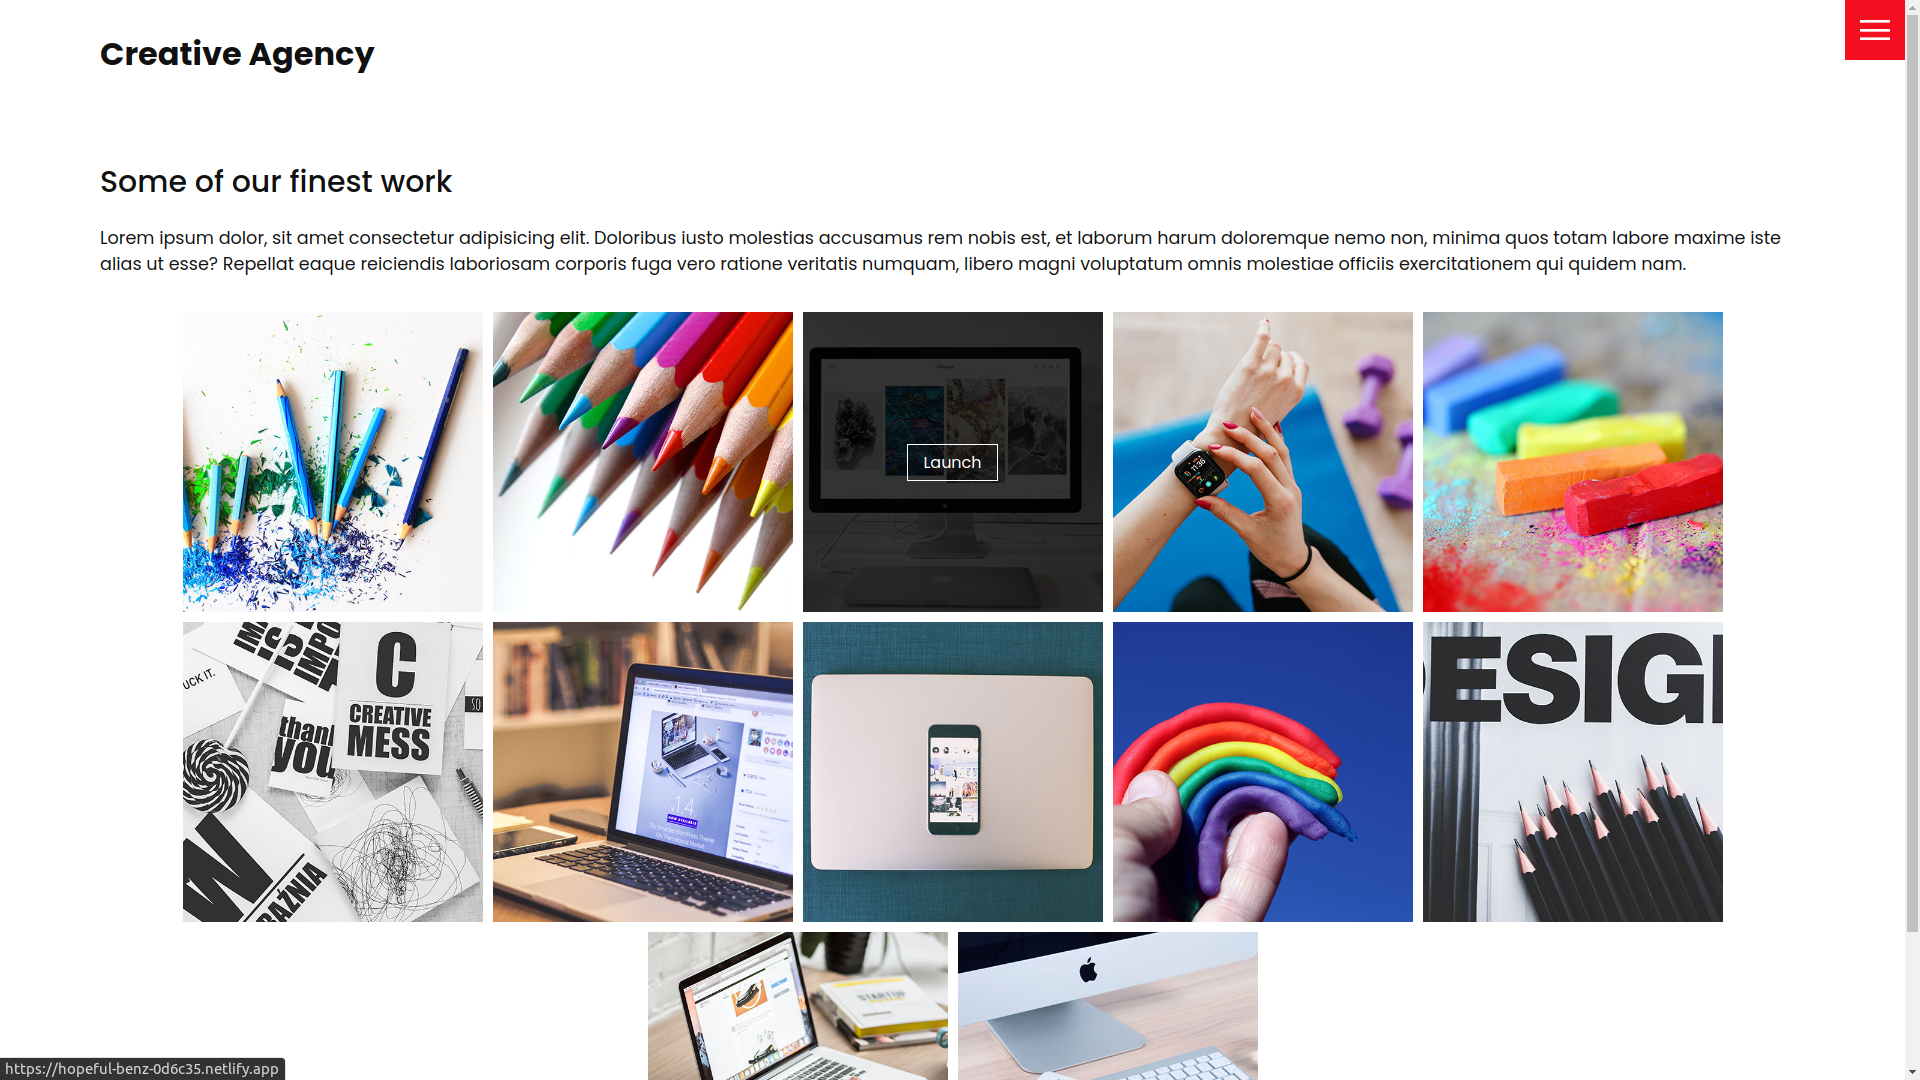
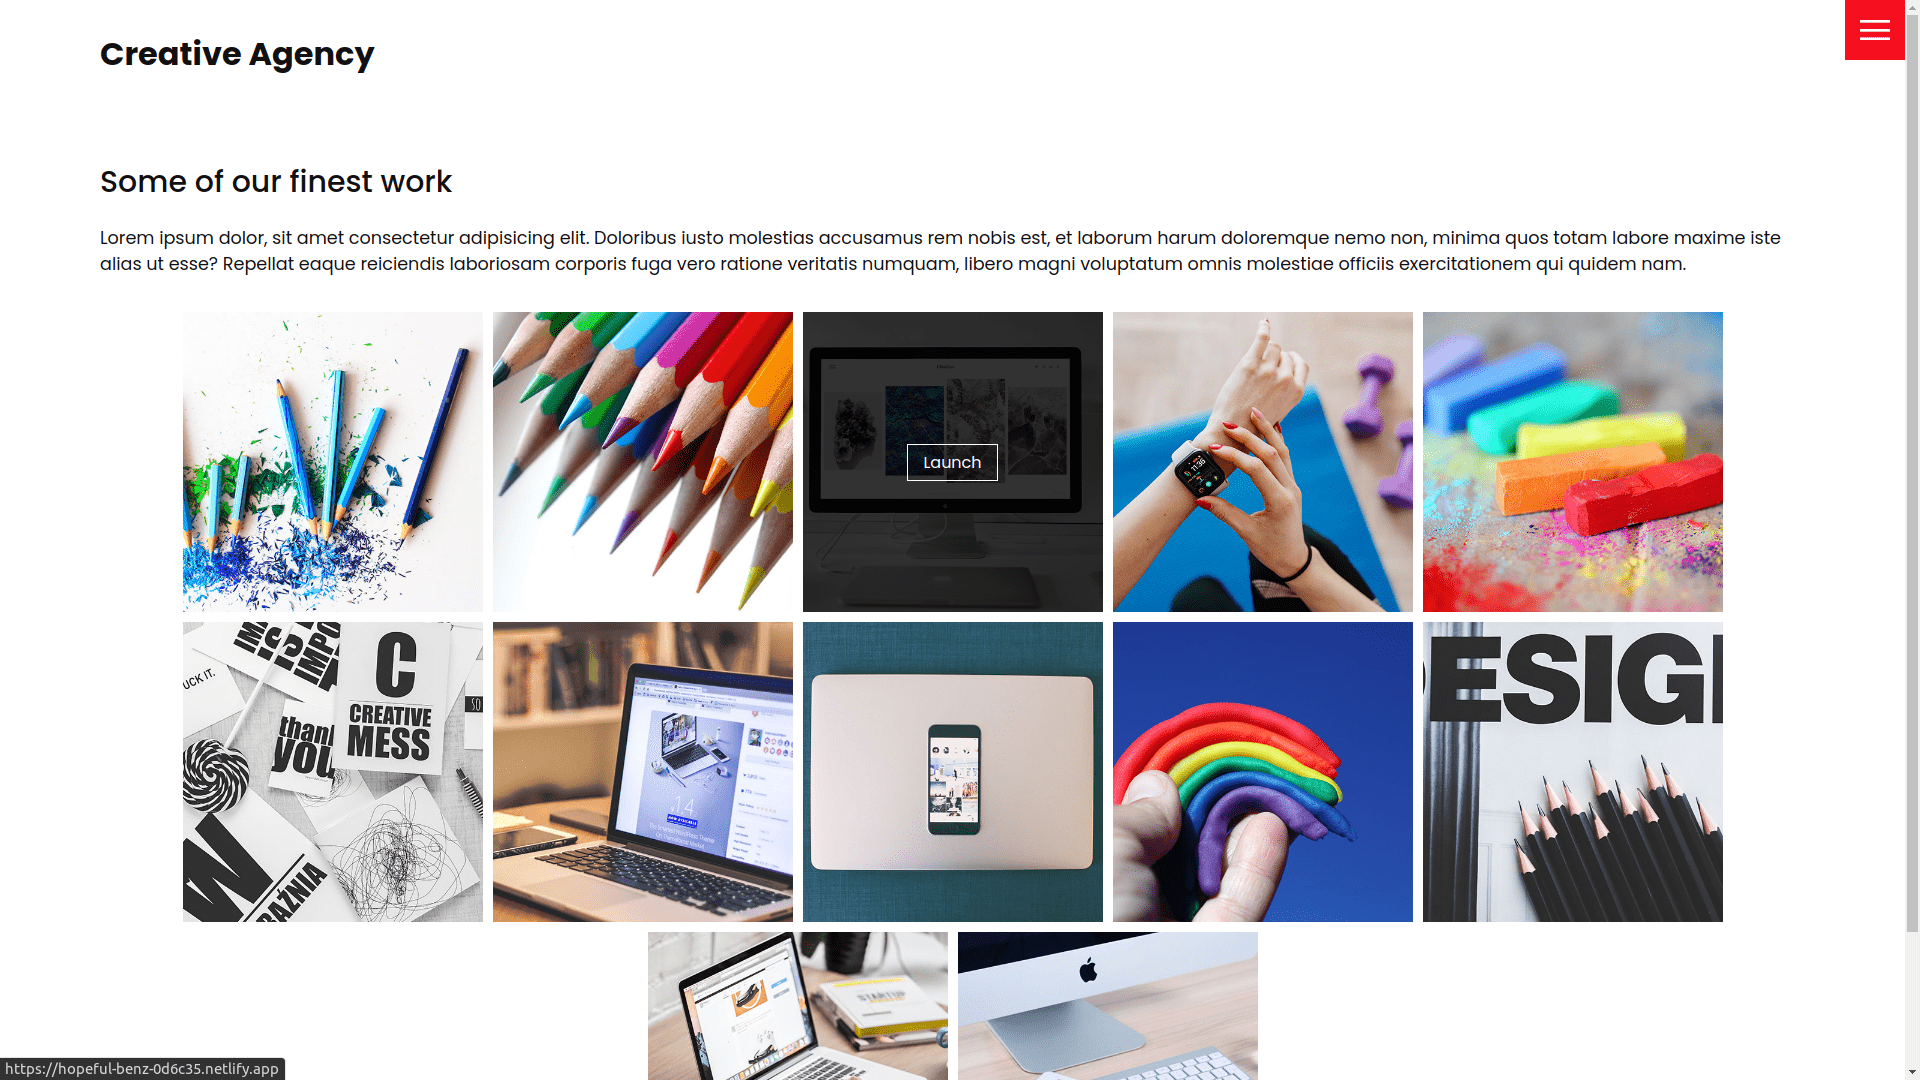
img compression

diff --git a/projectSpendify.html b/projectSpendify.html
@@ -1,9 +1,4 @@
 <!DOCTYPE html>
-<!--
-	Ethereal by HTML5 UP
-	html5up.net | @ajlkn
-	Free for personal and commercial use under the CCA 3.0 license (html5up.net/license)
--->
 <html>
   <head>
     <title id="top">Vector</title>
@@ -16,7 +11,8 @@
     <noscript
       ><link rel="stylesheet" href="assets/css/noscript.css"
     /></noscript>
-    <link rel="icon" href="logo.svg" type="image/x-icon" />
+  <link rel="icon" href="logo.svg" type="image/x-icon">
+
   </head>
   <body class="is-preload">
     <!-- Page Wrapper -->
@@ -26,49 +22,72 @@
         <!-- Panel -->
         <section class="panel" id="projects">
           <div class="intro color2">
-            <h2 class="major">S.A.D Group LTD</h2>
+            <h2 class="major">Spendify</h2>
             <p>
-              construction contractor company, designed using React front-end
-              and built a python custom API responsible for saving user requests
-              and sending emails notifying the company.
+              eCommerce web application, client-side features include shopping
+              cart with automatic save in local storage, client sign up, profile
+              page, and order history page. the admin dashboard allows for
+              product management as well as client order and profile management.
+              the admin order list will update as soon as an order has been
+              submitted. 
             </p>
-            <div class="go-to-live__Link">
-              <a
-                href="https://sadgroup.co.il/"
-                target="_blank"
-                style="font-weight: 700; font-family: Helvetica, sans-serif"
-                >Live <i class="fas fa-external-link-alt"> </i
-              ></a>
-            </div>
+         
           </div>
+         
+            <div class="intro color0">
+              
+              <p>
+                the admin is able to approve the order payment as well
+              as the order delivery status, which will update on the client
+              order history page</br>
+                 * admin dashboard:   </br>add /admin.<br/> 
+                * admin login details:  </br>admin@example.com  </br>1234 
+                </br>
+                * user login
+                details: user@example.com  </br>1234
+              </p>
+              
+              <div class="go-to-live__Link">
+                <a
+                href="https://nervous-engelbart-418ec7.netlify.app/"
+                target="_blank"
+                style="
+                  font-weight: 700;
+                  font-family: Helvetica, sans-serif;"    
+                >Live <i class="fas fa-external-link-alt"> </i></a
+              >
+            </div>
+              
+            </div>
+
           <div class="gallery">
             <a
-              href="images/gallery/fulls/sadgroup2.png"
+              href="images/gallery/fulls/spendify1.png"
               class="image filtered span-2-5"
               data-position="center"
               style="border: solid 1px var(--color-primary)"
-              ><img src="images/gallery/fulls/sadgroup2.png" alt=""
+              ><img src="images/gallery/fulls/spendify1.png" alt=""
             /></a>
             <a
-              href="images/gallery/fulls/sadgroup3.png"
+              href="images/gallery/fulls/spendify2.png"
               class="image filtered span-2-5"
               data-position="center"
               style="border: solid 1px var(--color-primary)"
-              ><img src="images/gallery/fulls/sadgroup3.png" alt=""
+              ><img src="images/gallery/fulls/spendify2.png" alt=""
             /></a>
             <a
-              href="images/gallery/fulls/sadgroup4.png"
+              href="images/gallery/fulls/spendify3.png"
               class="image filtered span-2-5"
               data-position="center"
               style="border: solid 1px var(--color-primary)"
-              ><img src="images/gallery/fulls/sadgroup4.png" alt=""
+              ><img src="images/gallery/fulls/spendify3.png" alt=""
             /></a>
             <a
-              href="images/gallery/fulls/sadgroup1.png"
+              href="images/gallery/fulls/spendify4.png"
               class="image filtered span-2-5"
               data-position="center"
               style="border: solid 1px var(--color-primary)"
-              ><img src="images/gallery/fulls/sadgroup1.png" alt=""
+              ><img src="images/gallery/fulls/spendify4.png" alt=""
             /></a>
           </div>
         </section>
@@ -90,10 +109,8 @@
           </div>
           <div class="inner columns divided">
             <div class="span-3-25">
-              <form
-                action="https://formsubmit.co/vector.development@protonmail.com"
-                method="POST"
-              >
+              <form action="https://formsubmit.co/vector.development@protonmail.com"
+              method="POST">
                 <div class="fields">
                   <div class="field half">
                     <label for="name">Name</label>
@@ -147,6 +164,7 @@
           </div>
         </section>
 
+    
         <!-- Copyright -->
         <div class="copyright">&copy; Vector Design: <a href="/">VSD</a>.</div>
 

diff --git a/index.html b/index.html
@@ -181,6 +181,14 @@
           </div>
           <div class="gallery">
             <a
+            href="/projectSpendify.html"
+
+              class="image filtered  span-2-5"
+              data-position="center"
+              style="border:1px solid var(--color-primary)"
+              ><img src="images/gallery/fulls/spendify1.png" alt=""
+            /></a>
+            <a
             href="/projectEQ.html"
 
               class="image filtered  span-2-5"
@@ -194,16 +202,17 @@
               class="image filtered  span-2-5"
               data-position="left"
               style="border:1px solid var(--color-primary)"
-              ><img src="images/gallery/fulls/ca2.png" alt=""
+              ><img src="images/gallery/fulls/ca3.png" alt=""
             /></a>
-            <a
+            <!-- ######### Electrics STORE HEB ######### -->
+            <!-- <a
             href="/projectES.html"
 
               class="image filtered  span-2-5"
               data-position="top"
               style="border:1px solid var(--color-primary)"
               ><img src="images/gallery/fulls/elec1.png" alt=""
-            /></a>
+            /></a> -->
             <a
             href="/projectNA.html"
 

diff --git a/projectEQ.html b/projectEQ.html
@@ -32,19 +32,15 @@
               components, lightwheight PWA, different features such as cart,
               product slider and a modern resposnsive design.
             </p>
-            <ul class="contact-icons">
-              <li class="icon solid fas fa-external-link-alt">
-                <a
-                  href="https://priceless-jennings-93086e.netlify.app/"
-                  target="_blank"
-                  style="
-                    font-weight: 200;
-                    font-family: Arial, Helvetica, sans-serif;
-                  "
-                  >Live</a
-                >
-              </li>
-            </ul>
+
+            <div class="go-to-live__Link">
+              <a
+                href="https://priceless-jennings-93086e.netlify.app/"
+                target="_blank"
+                style="font-weight: 700; font-family: Helvetica, sans-serif"
+                >Live <i class="fas fa-external-link-alt"> </i
+              ></a>
+            </div>
           </div>
           <div class="gallery">
             <a

diff --git a/projectFW.html b/projectFW.html
@@ -34,19 +34,14 @@
               based on the original company website which was designed with
               wordpress.
             </p>
-            <ul class="contact-icons">
-              <li class="icon solid fas fa-external-link-alt">
-                <a
-                  href="https://keen-nightingale-4d0442.netlify.app/"
-                  target="_blank"
-                  style="
-                    font-weight: 200;
-                    font-family: Arial, Helvetica, sans-serif;
-                  "
-                  >Live</a
-                >
-              </li>
-            </ul>
+            <div class="go-to-live__Link">
+              <a
+                href="https://keen-nightingale-4d0442.netlify.app/"
+                target="_blank"
+                style="font-weight: 700; font-family: Helvetica, sans-serif"
+                >Live <i class="fas fa-external-link-alt"> </i
+              ></a>
+            </div>
           </div>
           <div class="gallery">
             <a

diff --git a/projectCA.html b/projectCA.html
@@ -32,19 +32,14 @@
               fast, and quick to update. custom React components & minimalist
               design.
             </p>
-            <ul class="contact-icons">
-              <li class="icon solid fas fa-external-link-alt">
-                <a
-                  href="https://hopeful-benz-0d6c35.netlify.app/"
-                  target="_blank"
-                  style="
-                    font-weight: 200;
-                    font-family: Arial, Helvetica, sans-serif;
-                  "
-                  >Live</a
-                >
-              </li>
-            </ul>
+            <div class="go-to-live__Link">
+              <a
+                href="https://hopeful-benz-0d6c35.netlify.app/"
+                target="_blank"
+                style="font-weight: 700; font-family: Helvetica, sans-serif"
+                >Live <i class="fas fa-external-link-alt"> </i
+              ></a>
+            </div>
           </div>
 
           <div class="gallery">

diff --git a/projectNA.html b/projectNA.html
@@ -49,20 +49,15 @@
         
               
             </p>
-            <ul class="contact-icons">
-             
-              <li class="icon solid fas fa-external-link-alt">
-                <a
-                  href="https://distracted-easley-4a639d.netlify.app/"
-                  target="_blank"
-                  style="
-                    font-weight: 200;
-                    font-family: Arial, Helvetica, sans-serif;
-                  "
-                  >Live</a
-                >
-              </li>
-            </ul>
+            <div class="go-to-live__Link">
+              <a
+              href="https://distracted-easley-4a639d.netlify.app/"
+
+                target="_blank"
+                style="font-weight: 700; font-family: Helvetica, sans-serif"
+                >Live <i class="fas fa-external-link-alt"> </i
+              ></a>
+            </div>
           </div>
           <div class="gallery">
             <a
